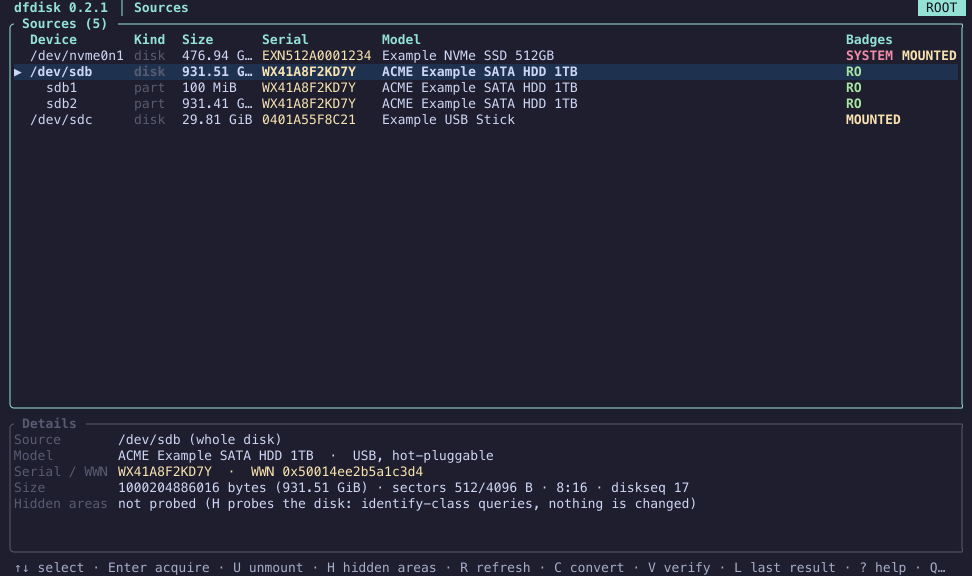
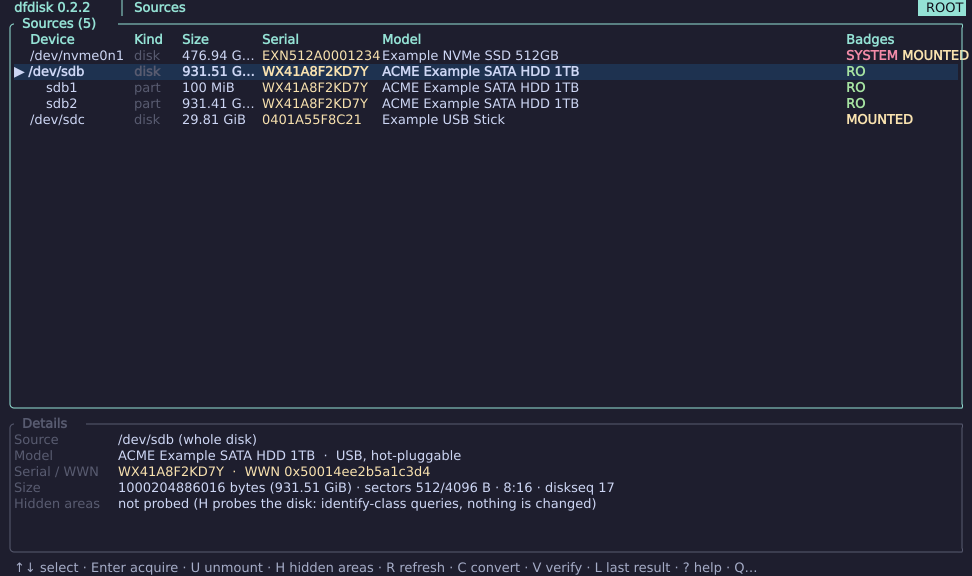
chore(release): dfdisk 0.2.2
- version 0.2.2 in Cargo.toml, Cargo.lock, package.nix and README.md
- CHANGELOG.md section dated 2026-11-23
- screenshots rendered again (the TUI header shows 0.2.2)

diff --git a/CHANGELOG.md b/CHANGELOG.md
@@ -5,7 +5,7 @@ All notable changes to this project will be documented in this file.
 The format is based on [Keep a Changelog](https://keepachangelog.com/en/1.0.0/),
 and this project adheres to [Semantic Versioning](https://semver.org/spec/v2.0.0.html).
 
-## [Unreleased]
+## [0.2.2] - 2026-11-23
 
 ### Changed
 
@@ -16,6 +16,25 @@ and this project adheres to [Semantic Versioning](https://semver.org/spec/v2.0.0
   written by earlier versions are read as before. One module,
   `src/models/timestamp.rs`, now holds everything that depends on the date
   library, with tests that pin the text forms to what chrono wrote.
+- **Dependencies updated, RustSec advisories cleared.** Updated locked Rust
+  crates (`tokio` 1.54.1 clearing RUSTSEC-2026-0386, `rustix` 1.1.6 clearing
+  RUSTSEC-2026-0486, plus routine semver-compatible updates; `cargo audit`
+  reports zero advisories). Updated `flake.lock` inputs (`dfcore` locked to
+  `d2d9fce` matching the dfnix ISO, `nixpkgs` to
+  nixos-unstable 2026-11-21, `flake-utils` and `systems`) and aligned
+  `shell.nix` with the flake dev shell.
+- **CI and supply-chain hardening.** Bumped the CI and release Rust toolchain
+  to 1.100.0 (MSRV remains 1.88), unified Nix setup on
+  `cachix/install-nix-action`, pinned all third-party GitHub Actions to full
+  commit SHAs, added a PR and weekly `cargo audit --deny unsound` CI job, and
+  added Dependabot automation for `github-actions` and `nix` (ignoring
+  `dfcore`, with grouping and a 7-day cooldown).
+- **Release builds in an Ubuntu 22.04 container.** The binaries and the .deb
+  are built, and the tests run, in an Ubuntu 22.04 container instead of on the
+  hosted Ubuntu 22.04 runner: the same glibc 2.35 baseline, and the same
+  `ewf-tools` and `gddrescue` for the tests. A release build now fails unless
+  the binary names the commit it was built from and the locked dfcore
+  revision.
 
 ## [0.2.1] - 2026-10-17
 

diff --git a/README.md b/README.md
@@ -70,7 +70,7 @@ Every release has an amd64 package with a checksum next to it. It is built on
 Ubuntu 22.04, so it needs Ubuntu 22.04 or Debian 12 or newer.
 
 ```bash
-VERSION=0.2.1
+VERSION=0.2.2
 wget "https://github.com/tylerstyle/dfdisk/releases/download/v${VERSION}/dfdisk_${VERSION}-1_amd64.deb"{,.sha256}
 sha256sum -c "dfdisk_${VERSION}-1_amd64.deb.sha256"
 sudo apt install "./dfdisk_${VERSION}-1_amd64.deb"
@@ -118,7 +118,7 @@ licenses and `docs/`, each with a checksum:
 - `aarch64-unknown-linux-gnu`: 64-bit ARM
 
 ```bash
-VERSION=0.2.1
+VERSION=0.2.2
 TARGET=x86_64-unknown-linux-musl
 wget "https://github.com/tylerstyle/dfdisk/releases/download/v${VERSION}/dfdisk-v${VERSION}-${TARGET}.tar.gz"{,.sha256}
 sha256sum -c "dfdisk-v${VERSION}-${TARGET}.tar.gz.sha256"
